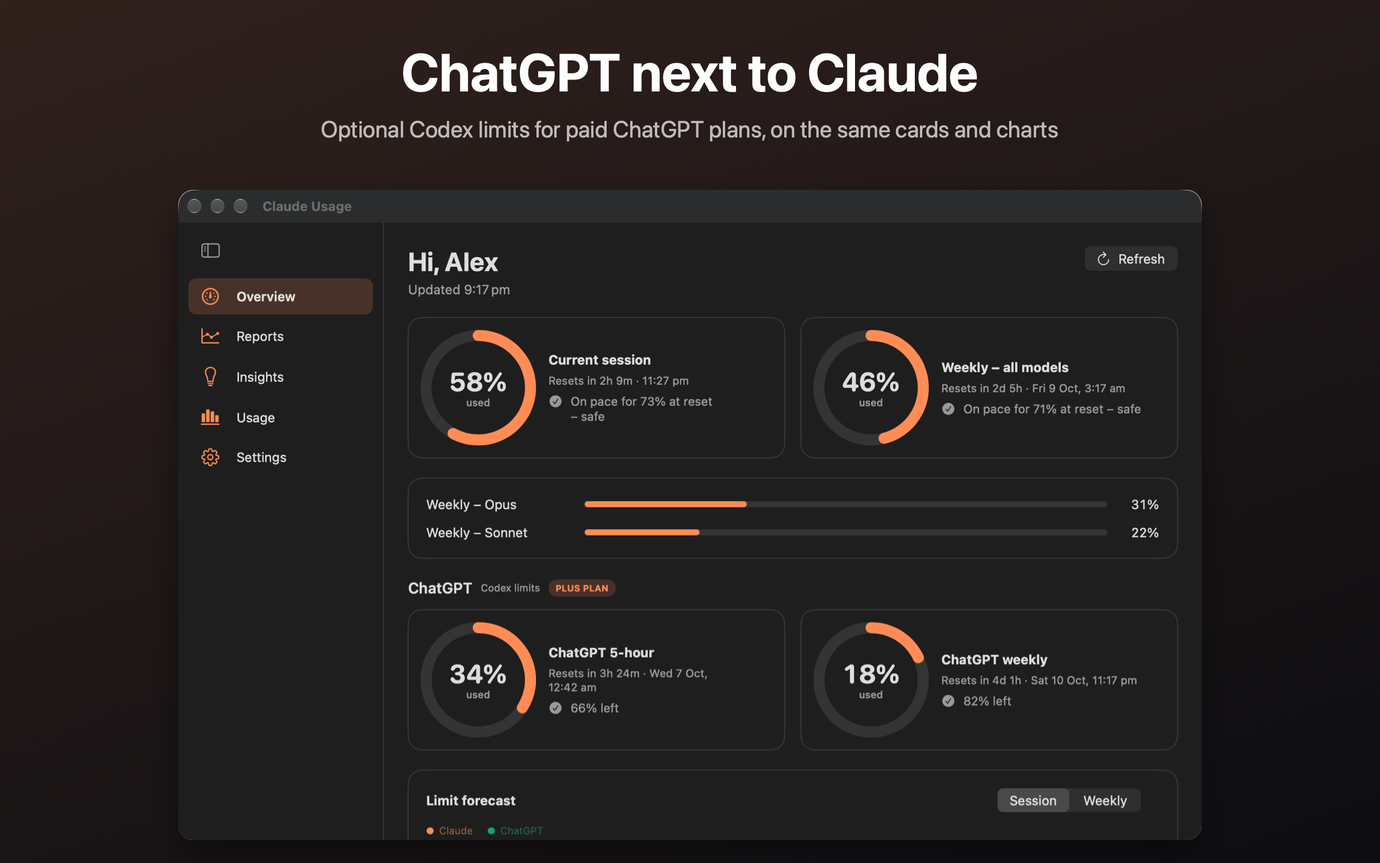
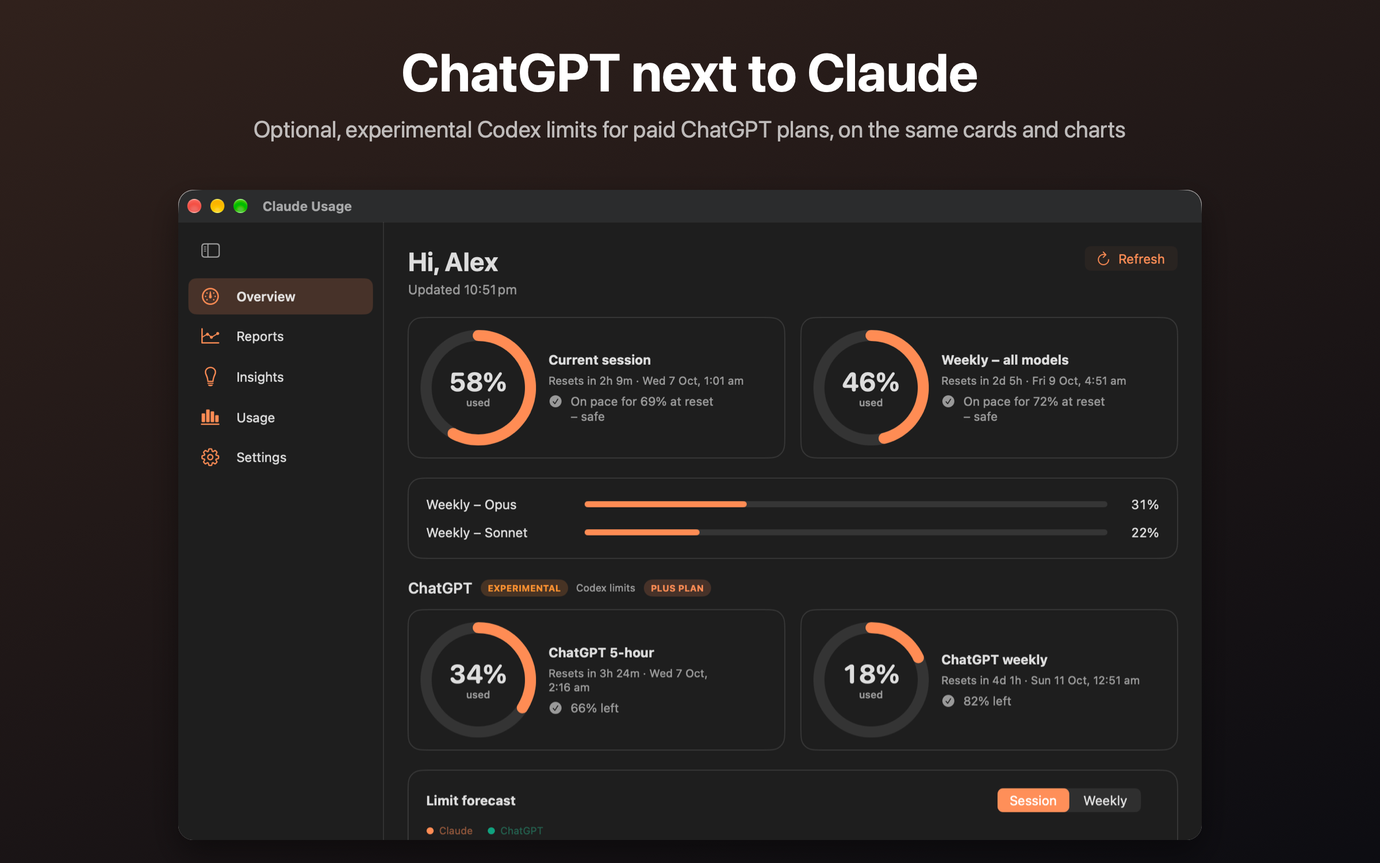
0.10.0: beta. ChatGPT experimental, chart accessibility and shortcuts, alert fix, roadmap to 1.0
Claude-Session: https://claude.ai/code/session_01KBDAFFW95fuVdvaqv2mQSC

diff --git a/ClaudeUsage/src/Dashboard.swift b/ClaudeUsage/src/Dashboard.swift
@@ -162,7 +162,7 @@ struct SidebarView: View {
             .buttonStyle(.plain).help(narrow ? "Show sidebar labels" : "Collapse to icons")
             .padding(.bottom, 6)
 
-            ForEach(DashTab.allCases) { tab in
+            ForEach(Array(DashTab.allCases.enumerated()), id: \.element.id) { index, tab in
                 let selected = store.tab == tab
                 Button { store.tab = tab } label: {
                     HStack(spacing: 12) {
@@ -173,7 +173,9 @@ struct SidebarView: View {
                     .background(RoundedRectangle(cornerRadius: 8, style: .continuous).fill(selected ? (settings.isOLED ? Color(white: 0.16) : Color.brand.opacity(0.18)) : Color.clear))
                     .contentShape(Rectangle())
                 }
-                .buttonStyle(.plain).help(tab.title)
+                .buttonStyle(.plain).help("\(tab.title) (⌘\(index + 1))")
+                .keyboardShortcut(KeyEquivalent(Character("\(index + 1)")), modifiers: .command)
+                .accessibilityLabel(tab.title).accessibilityAddTraits(selected ? .isSelected : [])
             }
             Spacer()
             if narrow {
@@ -267,7 +269,7 @@ struct OverviewView: View {
                         }
                     }
                     Spacer()
-                    Button { store.actions.refresh() } label: { Label("Refresh", systemImage: "arrow.clockwise") }
+                    Button { store.actions.refresh() } label: { Label("Refresh", systemImage: "arrow.clockwise") }.keyboardShortcut("r", modifiers: .command).help("Refresh (⌘R)")
                 }
 
                 if store.limits.isEmpty {
@@ -349,6 +351,9 @@ struct ChatGPTSection: View {
         VStack(alignment: .leading, spacing: 12) {
             HStack(spacing: 8) {
                 Text("ChatGPT").font(.title3.bold())
+                Text("EXPERIMENTAL").font(.system(size: 9, weight: .bold)).foregroundStyle(Color.orange)
+                    .padding(.horizontal, 7).padding(.vertical, 3).background(Capsule().fill(Color.orange.opacity(0.18)))
+                    .help("ChatGPT usage is experimental: the paid-plan limits have only been verified with sample data.")
                 Text("Codex limits").font(.caption).foregroundStyle(.secondary)
                 if !g.plan.isEmpty {
                     Text("\(g.plan.uppercased()) PLAN").font(.system(size: 9, weight: .bold)).foregroundStyle(Color.brand)
@@ -506,7 +511,7 @@ struct OnboardingCard: View {
                 if store.loginBusy { ProgressView().controlSize(.small) }
                 else { Button("Sign In") { store.actions.signIn() }.buttonStyle(.borderedProminent).disabled(!hasClaude) }
             }
-            Text("Optional: add ChatGPT (Codex) usage later in Settings → Account. Everything stays on your Mac.")
+            Text("Optional and experimental: add ChatGPT (Codex) usage later in Settings → Account. Everything stays on your Mac.")
                 .font(.footnote).foregroundStyle(.secondary)
         }
         .padding(20).card()
@@ -649,6 +654,7 @@ struct ProjectionCard: View {
             }
         }
         .padding(18).card()
+        .accessibilityElement(children: .contain).accessibilityLabel("Limit forecast chart")
     }
 
     private func points(_ l: Limit, resets: Date, now: Date) -> [Pt] {
@@ -709,6 +715,7 @@ struct UsageView: View {
                     Text("Input + output + cache-write tokens from Claude Code on this Mac.").font(.caption).foregroundStyle(.secondary)
                 }
                 .padding(18).card()
+        .accessibilityElement(children: .contain).accessibilityLabel("Daily tokens chart")
 
                 HStack(alignment: .top, spacing: 16) {
                     VStack(alignment: .leading, spacing: 12) {
@@ -723,6 +730,7 @@ struct UsageView: View {
                         .frame(height: 180)
                     }
                     .padding(18).frame(maxWidth: .infinity).card()
+        .accessibilityElement(children: .contain).accessibilityLabel("Today by hour chart")
 
                     VStack(alignment: .leading, spacing: 12) {
                         HStack {
@@ -746,6 +754,7 @@ struct UsageView: View {
                         }
                     }
                     .padding(18).frame(maxWidth: .infinity).card()
+        .accessibilityElement(children: .contain).accessibilityLabel("Tokens by model chart")
                 }
 
                 let projects = s.byProjectWeek.map { ($0.key, $0.value.billable) }.filter { $0.1 > 0 }.sorted { $0.1 > $1.1 }.prefix(8)
@@ -765,6 +774,7 @@ struct UsageView: View {
                     }
                 }
                 .padding(18).frame(maxWidth: .infinity, alignment: .leading).card()
+        .accessibilityElement(children: .contain).accessibilityLabel("Tokens by project chart")
 
                 let busyHour = s.hourOfDay30.enumerated().max { $0.element < $1.element }
                 let busyDay = s.weekday30.enumerated().max { $0.element < $1.element }
@@ -1078,9 +1088,9 @@ struct SettingsPage: View {
     /// Optional ChatGPT usage, read through OpenAI's Codex CLI sign-in (works with free and paid ChatGPT accounts).
     @ViewBuilder private var chatgptGroup: some View {
         let g = store.chatgpt
-        SGroup(title: "ChatGPT", footer: "Shows your Codex usage limits for a paid ChatGPT plan, using the sign-in saved by OpenAI’s Codex CLI (install with “brew install codex”). Claude Usage only reads it to ask ChatGPT for your limits – it never changes, copies or stores your ChatGPT login.") {
+        SGroup(title: "ChatGPT (experimental)", footer: "Experimental: the paid-plan limits have so far only been checked with sample data, so numbers may be missing or off. Shows your Codex usage limits for a paid ChatGPT plan, using the sign-in saved by OpenAI’s Codex CLI (install with “brew install codex”). Claude Usage only reads it to ask ChatGPT for your limits – it never changes, copies or stores your ChatGPT login.") {
             if !settings.chatgptEnabled {
-                SRow(title: "Show ChatGPT usage", subtitle: "See your ChatGPT (Codex) limits next to Claude’s. Needs a paid ChatGPT plan. Nothing is read until you connect.") {
+                SRow(title: "Show ChatGPT usage (experimental)", subtitle: "See your ChatGPT (Codex) limits next to Claude’s. Needs a paid ChatGPT plan. Nothing is read until you connect.") {
                     Button("Connect…") { store.actions.connectChatGPT() }.buttonStyle(.borderedProminent)
                 }
             } else if store.chatgptBusy {
@@ -1225,7 +1235,7 @@ struct SettingsPage: View {
                 SDivider()
                 SRow(title: "Weekly limit", subtitle: "How much of the weekly limit you’ve used.") { Toggle("", isOn: $settings.menuShowWeekly).labelsHidden().toggleStyle(.switch) }
                 SDivider()
-                SRow(title: "ChatGPT usage", subtitle: settings.chatgptEnabled ? "Your ChatGPT limit, shown as G 12%." : "Connect ChatGPT in Settings → Account first.") {
+                SRow(title: "ChatGPT usage (experimental)", subtitle: settings.chatgptEnabled ? "Your ChatGPT limit, shown as G 12%." : "Connect ChatGPT in Settings → Account first.") {
                     Toggle("", isOn: $settings.menuShowChatGPT).labelsHidden().toggleStyle(.switch).disabled(!settings.chatgptEnabled)
                 }
                 SDivider()
@@ -1367,7 +1377,7 @@ struct SettingsPage: View {
             }
             updatesGroup
             changelogGroup
-            Text("Early alpha – expect rough edges. Limit numbers come from the same source as Claude Code’s /usage. Unofficial – not affiliated with Anthropic.")
+            Text("Beta – there may still be rough edges. Limit numbers come from the same source as Claude Code’s /usage. Unofficial – not affiliated with Anthropic.")
                 .font(.caption).foregroundStyle(.secondary).padding(.horizontal, 8)
             HStack(spacing: 14) {
                 Button("Terms & Legal") { store.settingsCategory = .support }

diff --git a/ClaudeUsage/src/Legal.swift b/ClaudeUsage/src/Legal.swift
@@ -14,7 +14,7 @@ enum Legal {
         ]),
         Section(id: "terms", title: "Terms of use", body: [
             "By using Claude Usage you agree to these terms. If you don’t agree, please stop using the app and delete it.",
-            "The app is free, early alpha software. It is provided “as is” and “as available”, with no warranty of any kind, whether express or implied. That includes fitness for a particular purpose, accuracy and uninterrupted operation.",
+            "The app is free, beta software. It is provided “as is” and “as available”, with no warranty of any kind, whether express or implied. That includes fitness for a particular purpose, accuracy and uninterrupted operation.",
             "To the fullest extent the law allows, the developer is not liable for any loss or damage that comes from using the app. That includes lost work, unexpected charges, missed or wrong alerts, and anything that follows from relying on a figure or forecast it shows.",
             "You are responsible for using the app in line with Anthropic’s own terms, policies and usage rules for your Claude account and Claude Code.",
             "The app may change, stop working or be withdrawn at any time, for example if Anthropic changes the service it reads from.",
@@ -28,14 +28,14 @@ enum Legal {
         Section(id: "privacy", title: "Privacy and your data", body: [
             "Claude Usage works on your Mac. Your usage history, saved activity, settings and profile photo are stored only on this Mac, in Application Support/ClaudeUsage and the app’s preferences.",
             "The app reads Claude Code’s log files in ~/.claude/projects, and the sign-in token Claude Code keeps in your keychain. The token is used only to ask Anthropic for your usage limits. It is never stored by the app, logged or sent anywhere else.",
-            "ChatGPT is optional and off until you connect it in Settings → Account. It needs a paid ChatGPT plan, and it shows your Codex usage limits. When it’s on, the app reads the sign-in that OpenAI’s Codex CLI saves in ~/.codex/auth.json and uses it only to ask ChatGPT for your usage limits. It never changes, refreshes, copies or stores that login, and it does not read your chats.",
+            "ChatGPT usage is experimental, optional and off until you connect it in Settings → Account. It needs a paid ChatGPT plan, and it shows your Codex usage limits. When it’s on, the app reads the sign-in that OpenAI’s Codex CLI saves in ~/.codex/auth.json and uses it only to ask ChatGPT for your usage limits. It never changes, refreshes, copies or stores that login, and it does not read your chats.",
             "The app makes up to three kinds of network request: to Anthropic, for your usage limits; to ChatGPT, for your ChatGPT limits, only if you connect it; and to GitHub, to check for and download updates. The developer runs no servers, receives no analytics, and collects no data about you.",
             "Reports and diagnostics leave your Mac only when you choose to send them. “Report a Bug” opens a pre-filled GitHub page that you review and submit yourself.",
             "You can delete everything the app stores by quitting it and removing the ClaudeUsage folder in ~/Library/Application Support.",
         ]),
         Section(id: "updates", title: "Updates and open source", body: [
-            "Updates are downloaded from the project’s GitHub repository and built on your Mac. Installing one replaces the app with the new version and keeps the old one as a backup in your Caches folder.",
-            "Only install updates from a source you trust. The source code is available for you to read at the link under About.",
+            "Updates are downloaded from the project’s GitHub releases. Each release is signed with a key held only by the developer, and the app installs an update only if its signature, checksum and contents check out. Installing one replaces the app with the new version and keeps the old one as a backup in your Caches folder.",
+            "Only install updates from a source you trust. The source code is available for you to read at the link under About, and SECURITY.md in the repository explains how updates are verified.",
         ]),
     ]
 

diff --git a/ClaudeUsage/src/main.swift b/ClaudeUsage/src/main.swift
@@ -548,8 +548,12 @@ final class App: NSObject, NSApplicationDelegate, UNUserNotificationCenterDelega
             let important = settings.importance == .all || (settings.importance == .critical && critical)
             seen.append(key); notify(title, body, important: important)
         }
+        var windows = UserDefaults.standard.dictionary(forKey: "alertWindows") as? [String: Int] ?? [:]
+        defer { UserDefaults.standard.set(windows, forKey: "alertWindows") }
         for l in store.limits where l.kind != .other {
-            let reset = l.resets.map { Int($0.timeIntervalSince1970 / 60) } ?? 0
+            // The server's reset time can wobble by seconds between fetches; keep one stable id per limit window so an alert fires once.
+            let reset = stableWindow(previous: windows[l.name], new: l.resets.map { Int($0.timeIntervalSince1970 / 60) } ?? 0)
+            windows[l.name] = reset
             let pct = Int(l.percent)
             for t in Array(Set([settings.warnThreshold, settings.criticalThreshold, 100])).sorted() where pct >= t {
                 let when = untilText(l.resets).replacingOccurrences(of: "Resets", with: "resets")

diff --git a/ClaudeUsage/src/SelfTest.swift b/ClaudeUsage/src/SelfTest.swift
@@ -169,6 +169,12 @@ func runSelfTests() -> Int32 {
     // The shipped app ignores developer overrides
     if Dev.production { check(Dev.env("PATH") == nil && !Dev.flag("--selftest"), "production build ignores CUB_* variables and dev flags") }
 
+    // Alerts fire once per window even if the server's reset time wobbles
+    check(stableWindow(previous: nil, new: 1000) == 1000, "first reading starts a window")
+    check(stableWindow(previous: 1000, new: 1001) == 1000 && stableWindow(previous: 1000, new: 999) == 1000, "a minute of wobble is the same window")
+    check(stableWindow(previous: 1000, new: 1000 + 300) == 1300, "a new session window (hours later) is a new id")
+    check(stableWindow(previous: 1000, new: 1000 + 7 * 24 * 60) == 1000 + 7 * 24 * 60, "a new weekly window is a new id")
+
     // Formatting helpers
     check(fmt(999) == "999" && fmt(1500) == "1.5K" && fmt(2_500_000) == "2.5M", "token formatting")
     check(plural(1, "response") == "1 response" && plural(2, "response") == "2 responses", "plural")

diff --git a/ClaudeUsage/src/Theme.swift b/ClaudeUsage/src/Theme.swift
@@ -6,7 +6,7 @@ import SwiftUI
 enum AppInfo {
     static var version: String { Bundle.main.infoDictionary?["CFBundleShortVersionString"] as? String ?? "0.1.0" }
     static var build: String { Bundle.main.infoDictionary?["CFBundleVersion"] as? String ?? "1" }
-    static var stage: String { Bundle.main.infoDictionary?["ClaudeUsageStage"] as? String ?? "alpha" }
+    static var stage: String { Bundle.main.infoDictionary?["ClaudeUsageStage"] as? String ?? "beta" }
     static let repoURL = URL(string: "https://github.com/Ol775/Claude-Usage")!
     static let coffeeURL = URL(string: "https://buymeacoffee.com/ol775")!
     static var display: String { "v\(version) \(stage)" }

diff --git a/ClaudeUsage/src/Forecast.swift b/ClaudeUsage/src/Forecast.swift
@@ -137,3 +137,11 @@ enum Predictor {
         }
     }
 }
+
+
+/// Identifies a limit window by its reset time (in minutes since 1970). A new reading within 10 minutes of the previous one is the
+/// same window (the server's timestamp wobbles), so the previous id is kept; a bigger jump is a new window.
+func stableWindow(previous: Int?, new: Int) -> Int {
+    guard let p = previous, abs(new - p) <= 10 else { return new }
+    return p
+}

diff --git a/ClaudeUsage/src/Insights.swift b/ClaudeUsage/src/Insights.swift
@@ -349,5 +349,6 @@ struct InsightsView: View {
             content()
         }
         .padding(18).frame(maxWidth: .infinity, alignment: .leading).card()
+        .accessibilityElement(children: .contain).accessibilityLabel(subtitle.map { "\(title), \($0)" } ?? title)
     }
 }

diff --git a/ClaudeUsage/src/Reports.swift b/ClaudeUsage/src/Reports.swift
@@ -230,5 +230,6 @@ struct ReportsView: View {
             content()
         }
         .padding(18).frame(maxWidth: .infinity, alignment: .leading).card()
+        .accessibilityElement(children: .contain).accessibilityLabel("\(title) chart, \(subtitle)")
     }
 }

diff --git a/ROADMAP.md b/ROADMAP.md
@@ -1,54 +1,80 @@
-# Roadmap: alpha to beta
+# Roadmap
 
-Claude Usage is currently **alpha** (v0.9.13). This is the plan for reaching **beta**, in order of what blocks it. Nothing here needs a paid account. Legend: ✅ done, 🚧 in progress, ⏳ waiting.
+Claude Usage reached **beta** in v0.10.0. This page records what the alpha delivered and lays out the road from beta to a **1.0 production release**. Nothing here needs a paid account unless a section says so. Legend: ✅ done, 🚧 in progress, ⏳ planned.
 
-## Phase 1: Reliability (blocks beta)
+## Alpha → beta: complete ✅
 
-1. ✅ **Release-based updater** (0.9.2, hardened in 0.9.10 and 0.9.13). Updates download the release DMG, verify an offline Ed25519 signature bound to the version plus the SHA-256, and swap the app in, with no developer tools needed. There is no source-build fallback.
-2. ⏳ **Test the paid ChatGPT (Codex) path** (deliberately last). The 5-hour and weekly windows are only verified with demo data. Verify with a paid account, or label the feature experimental until then.
-3. ✅ **Resilience to API changes** (0.9.3). Parsing skips unknown fields, and if a response changes shape the app keeps the last reading and says so instead of going blank.
-4. 🚧 **Automated tests and CI.** 66 built-in checks (`--selftest`) cover versions, update signatures and URL rules, the Claude and ChatGPT parsers, Claude Code log parsing, pricing, the forecaster, diagnostics and the event log. The GitHub Actions workflow that runs them on every push is written (`.pending/ci.yml`) and waits for the `workflow` scope on the GitHub login.
-5. ✅ **Performance check** (0.9.4). On 100 MB of logs a first scan takes about 1.2 s (cached afterwards), peak memory is about 155 MB, and the running app idles at 0% CPU. Possible later improvement: parse only the new part of a growing log.
+| # | Item | Result |
+|---|------|--------|
+| 1 | Release-based updater | Downloads the release DMG, verifies an offline Ed25519 signature bound to the version plus the SHA-256, no developer tools needed, no source-build fallback. |
+| 2 | ChatGPT (Codex) usage | Shipped as **experimental**: the paid-plan limits are only verified with sample data. Free plans are unsupported and hidden. |
+| 3 | Resilience to API changes | Tolerant parsing; if a response changes shape the app keeps the last reading and says so. |
+| 4 | Automated tests and CI | 67 built-in checks (`--selftest`) run by GitHub Actions on every push, on macOS 14, 15 and the latest. |
+| 5 | Performance | 100 MB of logs scans in about 1.2 s (cached afterwards), ~155 MB peak memory, 0% CPU idle. |
+| 6 | Install without Apple signing | Homebrew tap, checksum-verified terminal installer, checksum and signature on every release. |
+| 7 | Universal build | Apple silicon and Intel in one DMG. |
+| 8 | Onboarding | First-run welcome card for Claude Code setup and sign-in. |
+| 9 | Pricing updates | `pricing.json`, checked daily, validated, cached. |
+| 10 | Compatibility | Builds and self-tests on macOS 14, 15 and latest in CI; compiled against a macOS 13 target (not run on 13 itself, GitHub no longer offers a 13 runner). |
+| 11 | Accessibility | VoiceOver labels on cards, tiles, charts, tabs and the update bar; WCAG contrast check of every theme; ⌘1–⌘5 switch tabs and ⌘R refreshes. |
+| 12 | Notifications and launch at login | Launch at login built in; alert review fixed a bug where a wobbling server reset time could repeat an alert in the same window. |
+| 13–16 | Export, What's new, diagnostics, update progress | CSV export; one-time What's new notice; allow-list diagnostics with a Preview; progress bar and a download-only mode for copies that can't self-install. |
+| — | Security | Five independent read-only reviews, no secrets and no remote exploits found; all findings fixed. See [SECURITY.md](SECURITY.md). |
 
-## Security (done, repeat after risky changes)
+## Beta → 1.0: the road to production
 
-Five independent read-only reviews so far, all with no secrets found and no remote exploits:
+Phases can overlap; the order is by what most reduces risk for real users.
 
-- **0.9.10:** updater and supply chain, credentials and data handling, repository and history. Fixes: offline-signed updates, no source-build fallback, validated and re-checked downloads, safer program lookup, private data folders, developer overrides ignored in the shipped app, `SECURITY.md`, commit history rewritten to use the GitHub noreply email.
-- **0.9.13:** diagnostics privacy and the new update code. Fixes: signatures bound to the version, download time and size limits, redirects only to GitHub's hosts, plain `x.y.z` versions only, an installer saved to Downloads that never overwrites files, and a smaller, safer diagnostics report.
+### B1. Real-world confidence ⏳
+The biggest gap is that most testing happened on one Mac.
+- Clean-install and update test on a **second Mac** that has never had developer tools (DMG, Homebrew and terminal installers; update from every earlier beta).
+- Run on **macOS 13** hardware or a VM, and on an **Intel** Mac.
+- A hands-on **VoiceOver and keyboard-only pass** by a person (the automated labels exist; the experience is untested), plus Reduce Motion, Increase Contrast and larger text.
+- **Paid ChatGPT**: verify with a real paid account. If it can't be verified, remove the feature before 1.0 rather than ship it unproven.
+- Collect real bug reports from beta users and triage them in GitHub issues with labels and a "known issues" list in the README.
 
-See [SECURITY.md](SECURITY.md) for the trust model and how to report a problem privately.
+### B2. Quality and maintainability ⏳
+- Test with **real captured response samples** (sanitised) for the Claude and ChatGPT usage endpoints, and keep fixtures when formats change.
+- **Screenshot regression tests** in CI for the main screens in light, dark and OLED.
+- Split the very large `Dashboard.swift` into per-screen files; keep every file reviewable.
+- Parse only the new part of a growing log file (lower CPU on huge histories).
+- Pin GitHub Actions by commit SHA and enable Dependabot for the workflow file.
+- A build that works on the Swift versions in common use (CI already caught one portability bug).
 
-## Phase 2: Trust and first run
+### B3. Trust, security and distribution ⏳
+- **Decide on a paid Apple Developer ID and notarisation** at 1.0 (removes the first-launch prompt; costs $99/yr). Until then the free path stays: Homebrew tap, checksums, offline signature.
+- Document a **signing-key rotation and recovery procedure**, with the second backup tested (restore the key from iCloud/Proton and sign a test file).
+- Keep the legacy `.sig` for a few more releases, then remove it.
+- A **third security review** before 1.0, including a fresh look at install scripts and the Homebrew cask. Re-run it after any change to the updater, diagnostics or install scripts.
+- An opt-in **beta/stable update channel** so testers can get betas while everyone else stays on stable.
+- Publish a short privacy statement (`PRIVACY.md`) matching the in-app one, and a software bill of materials (the app has no third-party dependencies).
 
-6. ✅ **Low-friction install without Apple signing** (0.9.5). A Homebrew tap (`brew install --cask Ol775/tap/claude-usage`) clears the quarantine flag, the terminal installer requires a matching checksum, every release ships checksum and signature files, and the README explains the first-launch prompt. The source build stays as the fully transparent route.
-7. ✅ **Universal build** (0.9.5). Releases ship Apple silicon and Intel in one DMG.
-8. ✅ **Onboarding** (0.9.6). A first-run welcome card shows what's needed (Claude Code installed, signed in) with the next click.
-9. ✅ **Pricing table updates** (0.9.6). Prices live in `ClaudeUsage/pricing.json`; the app checks it once a day, validates it, caches it and merges it over the built-in table. The "no price known" note remains for unknown models.
-10. 🚧 **Compatibility.** The app compiles against a macOS 13 target (newer-only APIs are caught at build time), but it has only been run on the newest macOS. Still to do: run it on macOS 13, 14 and 15 (a CI job on those runners would do it).
+### B4. Product polish ⏳
+- Localisation (starting with the strings in Settings and the menu).
+- Data controls: a "delete all my data" button, retention settings and settings export/import.
+- Notification actions (snooze, open dashboard) and quiet hours.
+- ChatGPT graduates from experimental if verified (B1), with a screenshot refresh.
+- Optional: a WidgetKit widget and Shortcuts support (these need Xcode, which isn't installed on the build Mac).
 
-## Phase 3: Polish
+### B5. Community and project hygiene ⏳
+- `CONTRIBUTING.md`, issue and pull-request templates, and a `CODE_OF_CONDUCT.md`.
+- Release notes written for people, generated from the change log, and a support policy (latest release only, how fast security fixes ship).
+- A short "how updates are verified" explainer in the README linking to `SECURITY.md`.
 
-11. 🚧 **Accessibility** (0.9.8). VoiceOver reads limit cards, stat tiles, the update progress bar and the menu bar item in plain words, and every theme's colours were checked against the WCAG contrast formula. Still to do: chart descriptions and a full keyboard-navigation pass.
-12. 🚧 **Launch at login** is built in (Settings). Still to do: a review of the notification settings and repeat-alert behaviour.
-13. ✅ **Data export** to CSV is built in (Settings → Data & Export).
-14. ✅ **What's new** (0.9.8). A one-time notice after an update, plus the full change log in Settings → About.
-15. ✅ **Diagnostics** (0.9.8, trimmed in 0.9.13). A short allow-list of facts (app version, macOS version, chip, a few yes/no states and a local event log) with a **Preview** in Settings → Help & Legal showing exactly what Copy and Report a Bug include. No account details, paths, tokens or usage numbers.
-16. ✅ **Update progress** (0.9.11). A progress bar for download, verification and install (Settings → About, above every page and in the menu). Copies that can't replace themselves get a **Download Update** button that saves the verified installer to Downloads.
+## 1.0 production gates
 
-## Later (not blocking beta)
+Version 1.0 ships (stage switches to stable, README and in-app wording drop "beta") when all of these hold:
+- ⏳ Updates, installs and the first-run experience are verified on a second clean Mac, macOS 13 and an Intel Mac.
+- ⏳ CI is green on macOS 14, 15 and latest, and the self-tests plus screenshot tests cover the parsers, forecaster, updater and main screens.
+- ⏳ No open high-severity bugs; every known issue is listed.
+- ⏳ A third security review finds nothing medium or above outstanding, and the key-rotation procedure has been rehearsed.
+- ⏳ ChatGPT is either verified on a paid plan or removed.
+- ⏳ The Apple Developer ID decision is made and documented.
+- ⏳ README, SECURITY, PRIVACY, CONTRIBUTING and the in-app legal text are current and agree with each other.
 
+## Later (not blocking 1.0)
 - Independent sign-in, blocked until Anthropic offers a public OAuth client for third-party apps.
-- iCloud folder sync and a WidgetKit widget (widgets need Xcode).
-- Localisation.
-- Drop the legacy `.sig` release file once installs older than 0.9.13 have updated.
-
-## Beta exit criteria
-
-- ✅ The updater is tested end to end from a release, without developer tools. Tested in throwaway copies, including an old 0.9.10 build; still to confirm on a clean second Mac.
-- ⏳ CI is green, with tests covering the parsers and the predictor (the tests exist; CI is waiting on the workflow scope).
-- ⏳ No open crash or data-loss bugs for two weeks.
-- ⏳ Paid ChatGPT is verified, or clearly marked experimental.
-- ⏳ A bug has been reported and fixed through the in-app Report a Bug flow.
+- iCloud folder sync (per-Mac activity files summed together) if there is demand.
+- Multiple Claude accounts.
 
 Ideas or bugs? [Open an issue](https://github.com/Ol775/Claude-Usage/issues/new).

diff --git a/README.md b/README.md
@@ -7,7 +7,7 @@
 ![macOS 13+](https://img.shields.io/badge/macOS-13%2B-e8734a)
 ![Swift](https://img.shields.io/badge/Swift-SwiftUI-e8734a)
 
-**Claude Usage** is a free, open-source Mac app that shows your **Claude Code session and weekly usage limits** in the menu bar, with reset times, forecasts of when you'll hit the limit, and charts of your token usage. It's a native Swift and SwiftUI app for macOS 13 and later (the download runs natively on both Apple silicon and Intel Macs), with Light, Dark and OLED black themes. Current version: <!--v-->v0.9.14 alpha<!--/v-->.
+**Claude Usage** is a free, open-source Mac app that shows your **Claude Code session and weekly usage limits** in the menu bar, with reset times, forecasts of when you'll hit the limit, and charts of your token usage. It's a native Swift and SwiftUI app for macOS 13 and later (the download runs natively on both Apple silicon and Intel Macs), with Light, Dark and OLED black themes. Current version: <!--v-->v0.10.0 beta<!--/v-->.
 
 Keep an eye on how much of your Claude plan (Pro or Max) you've used, avoid hitting the limit mid-task, and see what your usage would cost at API prices. The source is in [`ClaudeUsage/`](ClaudeUsage).
 
@@ -17,7 +17,7 @@ Keep an eye on how much of your Claude plan (Pro or Max) you've used, avoid hitt
 - **Forecasts** of when you'll hit a limit at your current pace – weekly forecasts also learn from your saved history – plus early-warning notifications
 - **Reports**: day / week / month graphs of tokens and limit utilisation, with peaks per session and per week
 - **Insights**: heavy and light days, sessions per day/week, messages, tool calls, API-equivalent cost, per-model and per-project usage, and a yearly heatmap
-- Optional **ChatGPT (Codex) usage** for paid plans: connect through OpenAI's Codex CLI sign-in to see your Codex limits next to Claude's – on the Overview, in the menu bar menu, as a menu bar item (`G 34%`) and on the forecast and report charts
+- Optional, **experimental** **ChatGPT (Codex) usage** for paid plans: connect through OpenAI's Codex CLI sign-in to see your Codex limits next to Claude's – on the Overview, in the menu bar menu, as a menu bar item (`G 34%`) and on the forecast and report charts
 - Activity is saved on your Mac, so history outlives Claude Code's own log clean-up
 - Light / Dark / **OLED black** / Follow system, six colour themes (Claude orange by default)
 - Menu bar display options, configurable alert thresholds, CSV export, copy-summary, optional local profile photo
@@ -96,7 +96,7 @@ Use **Settings → Help & Legal → Report a Bug** in the app (it fills in your 
 
 ## Roadmap
 
-Claude Usage is alpha. See the [roadmap to beta](ROADMAP.md) for what's planned.
+Claude Usage is in **beta**. See the [roadmap to 1.0](ROADMAP.md) for what's planned.
 
 ## Support the project
 
@@ -116,7 +116,7 @@ Yes. It reads the limits for whichever Claude account Claude Code is signed in t
 The app forecasts it from your recent pace and warns you with a notification before you get there. Forecasts are estimates, not guarantees.
 
 **Can it show my ChatGPT usage too?**
-Yes, optionally, for **paid** ChatGPT plans (Plus, Pro, Business or Enterprise). Install OpenAI's [Codex CLI](https://github.com/openai/codex) (`brew install codex`), then choose **Settings → Account → ChatGPT → Connect**. It shows your Codex usage limits (a 5-hour and a weekly window) next to Claude's. Free plans aren't supported. Nothing is read until you connect, and the app only reads Codex's saved sign-in to ask ChatGPT for your limits – it never changes, copies or stores it.
+Yes, as an **experimental** option, for **paid** ChatGPT plans (Plus, Pro, Business or Enterprise). Install OpenAI's [Codex CLI](https://github.com/openai/codex) (`brew install codex`), then choose **Settings → Account → ChatGPT → Connect**. It shows your Codex usage limits (a 5-hour and a weekly window) next to Claude's. Free plans aren't supported. Nothing is read until you connect, and the app only reads Codex's saved sign-in to ask ChatGPT for your limits – it never changes, copies or stores it.
 
 **Is it official, and is it safe?**
 It's an unofficial, open-source app, not affiliated with Anthropic. It runs on your Mac, has no analytics, and only talks to Anthropic (for your limits), ChatGPT (only if you connect it) and GitHub (for updates). The code is all here to read.

diff --git a/ClaudeUsage/CHANGELOG.md b/ClaudeUsage/CHANGELOG.md
@@ -3,6 +3,9 @@
 Versions follow `MAJOR.MINOR.PATCH` and are currently **alpha**. Bump `VERSION` (use `./bump.sh`) with every change:
 **minor** for new features, **patch** for fixes and polish. The build number is the git commit count and rises automatically.
 
+## 0.10.0 – beta (2026-10-06)
+- Claude Usage is now beta. ChatGPT usage is labelled experimental; charts have spoken descriptions for VoiceOver and ⌘1–⌘5 switch tabs, ⌘R refreshes; fixed an alert that could repeat in the same window when the server's reset time wobbled; the app builds on older Swift compilers (found by new CI); CI now builds and tests on macOS 14, 15 and latest; the roadmap to 1.0 is published
+
 ## 0.9.14 – alpha (2026-10-06)
 - Fixes a build error on older Swift compilers found by the new CI (a variable shadowed a function name); no behaviour change
 

diff --git a/SECURITY.md b/SECURITY.md
@@ -4,7 +4,7 @@
 
 Please report security problems **privately** through GitHub: [Report a vulnerability](https://github.com/Ol775/Claude-Usage/security/advisories/new). Please don't open a public issue for anything that could put users at risk. Don't include real tokens or personal logs in a report.
 
-Only the latest release is supported while the app is in alpha/beta.
+Only the latest release is supported while the app is in beta.
 
 ## What the app can access
 
